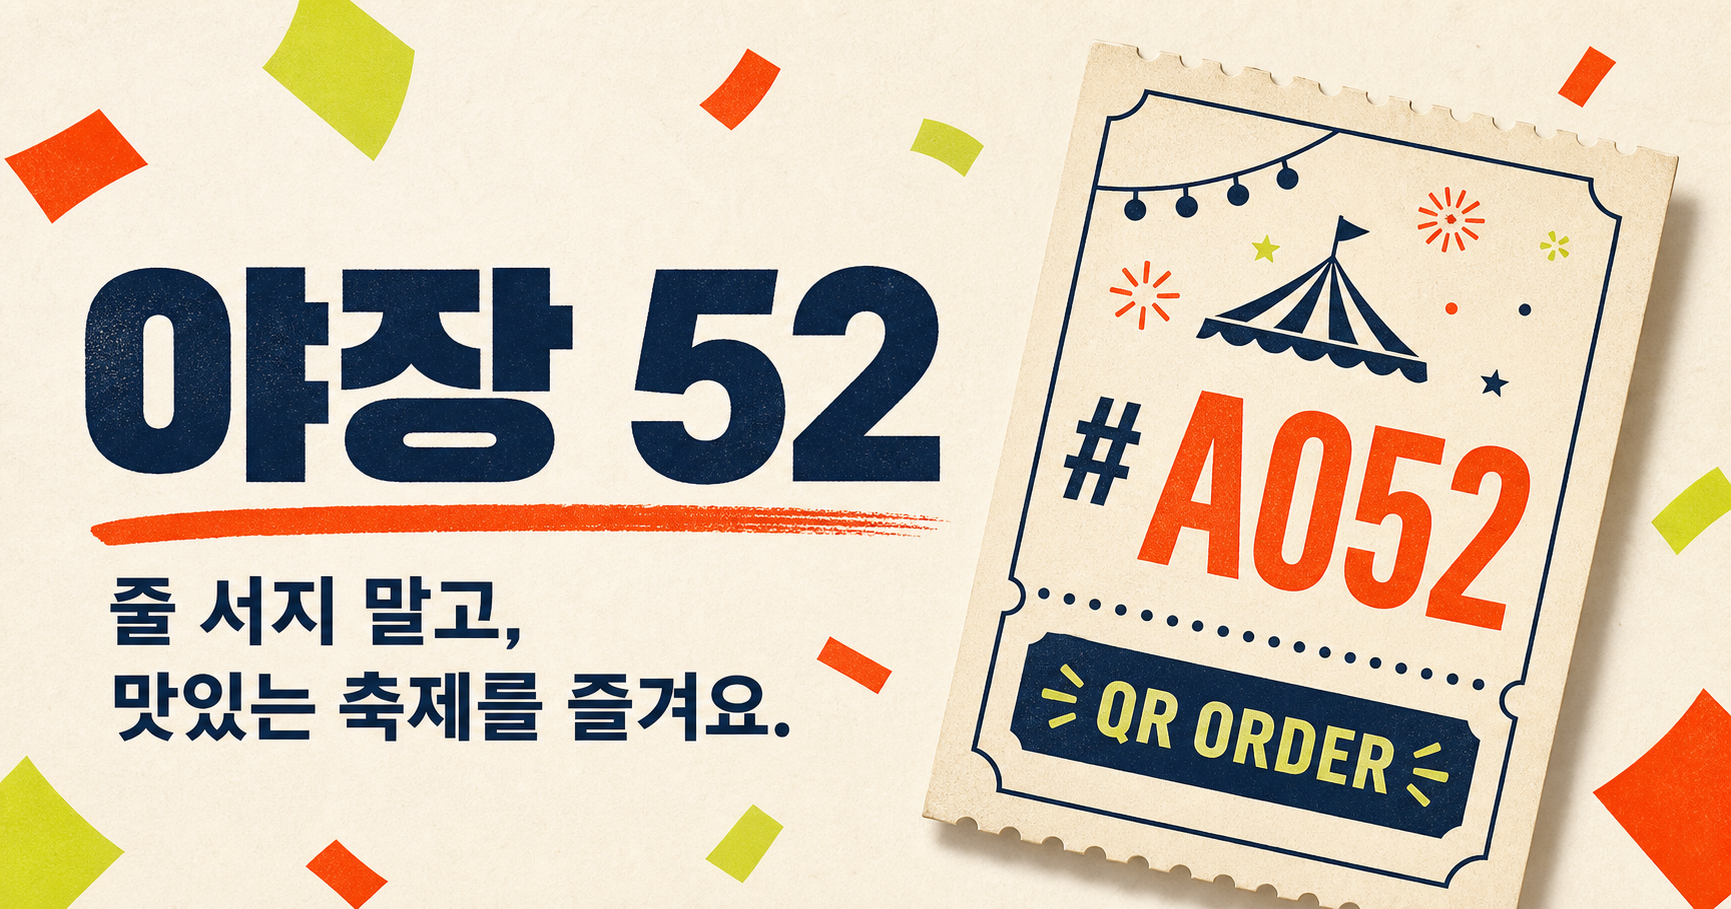
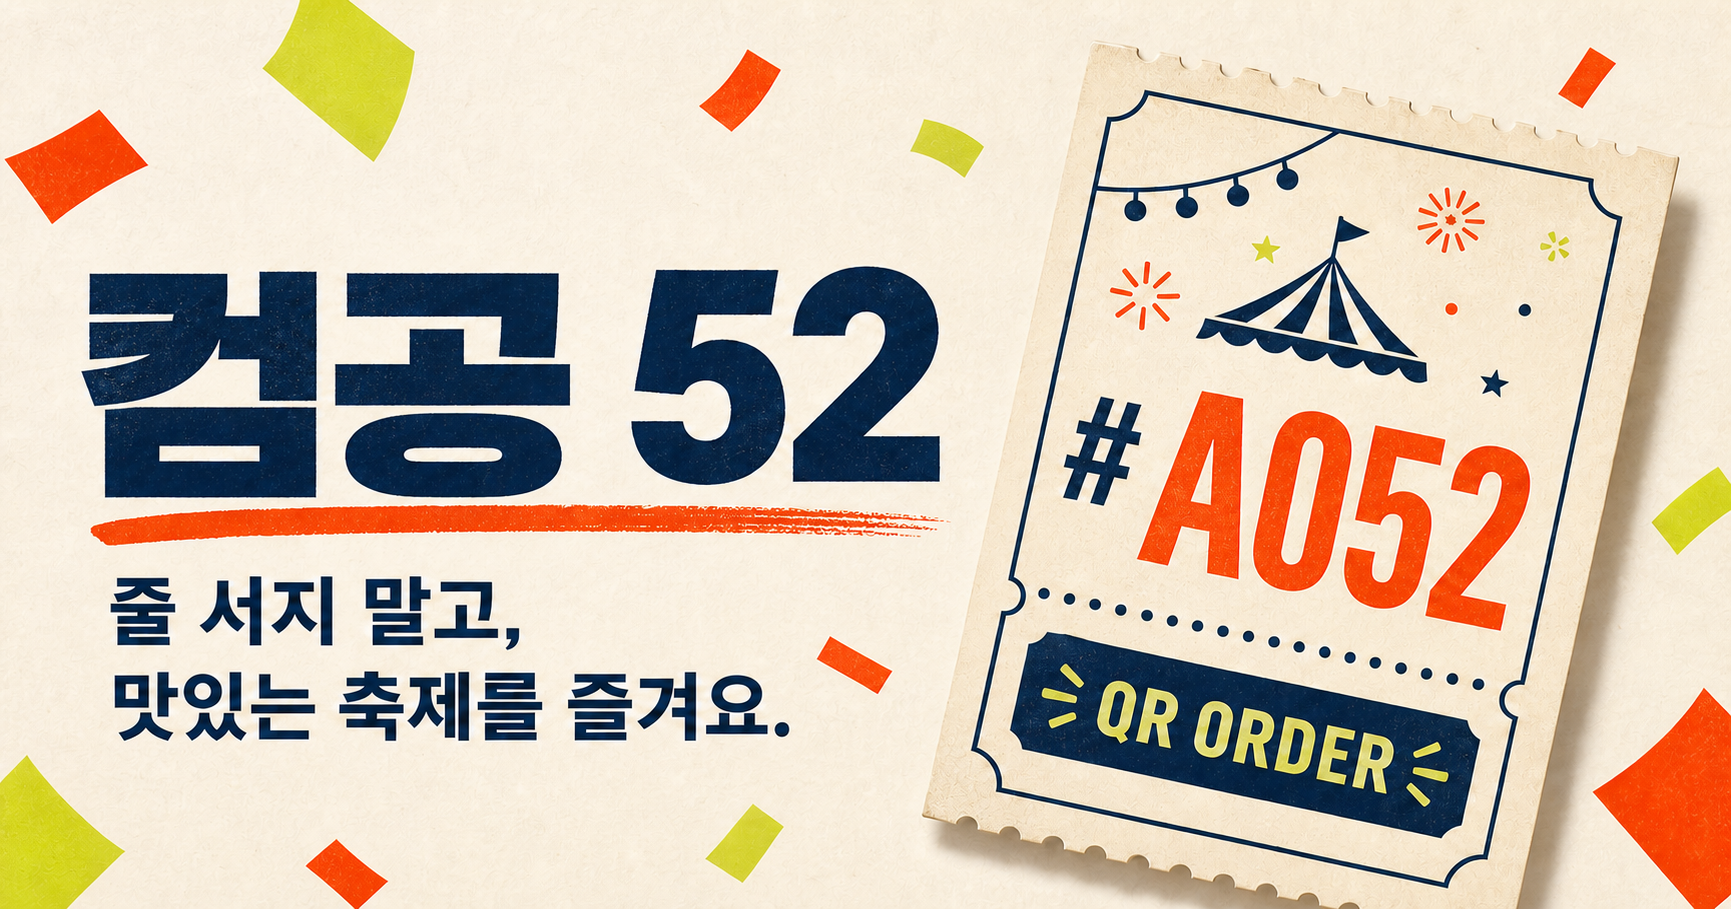
Rename festival brand to 컴공 52

diff --git a/app/layout.tsx b/app/layout.tsx
@@ -15,11 +15,11 @@ export async function generateMetadata(): Promise<Metadata> {
   const origin = `${protocol}://${host}`;
   return {
     metadataBase: new URL(origin),
-    title: { default: "야장 52 | 축제 QR 주문", template: "%s | 야장 52" },
+    title: { default: "컴공 52 | 축제 QR 주문", template: "%s | 컴공 52" },
     description: "테이블과 포장 주문을 빠르고 정확하게 처리하는 축제 QR 주문 시스템",
     icons: { icon: "/og.png", shortcut: "/og.png" },
-    openGraph: { title: "야장 52 · 축제 QR 주문", description: "QR을 찍고, 메뉴를 고르고, 주문 상태까지 한눈에.", type: "website", locale: "ko_KR", images: [{ url: `${origin}/og.png`, width: 1732, height: 909, alt: "야장 52 축제 QR 주문" }] },
-    twitter: { card: "summary_large_image", title: "야장 52 · 축제 QR 주문", description: "줄 서지 말고, 맛있는 축제를 즐겨요.", images: [`${origin}/og.png`] },
+    openGraph: { title: "컴공 52 · 축제 QR 주문", description: "QR을 찍고, 메뉴를 고르고, 주문 상태까지 한눈에.", type: "website", locale: "ko_KR", images: [{ url: `${origin}/og.png`, width: 1732, height: 909, alt: "컴공 52 축제 QR 주문" }] },
+    twitter: { card: "summary_large_image", title: "컴공 52 · 축제 QR 주문", description: "줄 서지 말고, 맛있는 축제를 즐겨요.", images: [`${origin}/og.png`] },
   };
 }
 

diff --git a/src/components/AdminDashboard.tsx b/src/components/AdminDashboard.tsx
@@ -85,7 +85,7 @@ export function AdminDashboard({ initialOrders = DEMO_ORDERS, initialMenu = DEMO
   return (
     <main className="admin-shell">
       <aside className="admin-sidebar">
-        <Link className="brand admin-brand" href="/"><span className="brand-mark">52</span><span><strong>야장</strong><small>ADMIN CONSOLE</small></span></Link>
+        <Link className="brand admin-brand" href="/"><span className="brand-mark">52</span><span><strong>컴공</strong><small>ADMIN CONSOLE</small></span></Link>
         <nav aria-label="운영 메뉴">
           <button type="button" className={view === "orders" ? "active" : ""} onClick={() => setView("orders")}><ClipboardList size={20} /> 주문 관리 <b>{orders.filter((item) => item.orderStatus !== "SERVED" && item.orderStatus !== "CANCELLED").length}</b></button>
           <button type="button" className={view === "inventory" ? "active" : ""} onClick={() => setView("inventory")}><Package size={20} /> 메뉴·재고 <b className="warn-count">{menu.filter((item) => item.stockQuantity <= 5).length}</b></button>

diff --git a/app/page.tsx b/app/page.tsx
@@ -9,7 +9,7 @@ export default function Home() {
       <nav className="landing-nav" aria-label="주요 메뉴">
         <Link className="brand" href="/">
           <span className="brand-mark">52</span>
-          <span><strong>야장</strong><small>FESTIVAL KITCHEN</small></span>
+          <span><strong>컴공</strong><small>COMPUTER ENGINEERING</small></span>
         </Link>
         <Link className="nav-admin" href="/admin">운영자 화면 <ArrowRight size={16} /></Link>
       </nav>
@@ -34,7 +34,7 @@ export default function Home() {
         </div>
 
         <div className="hero-ticket" aria-label="주문 과정 안내">
-          <div className="ticket-top"><span>YAJANG 52</span><span>ORDER GUIDE</span></div>
+          <div className="ticket-top"><span>COMGONG 52</span><span>ORDER GUIDE</span></div>
           <div className="ticket-number"># A052</div>
           <div className="ticket-route">
             <div><span>01</span><strong>메뉴 선택</strong><small>먹고 싶은 메뉴 담기</small></div><i />

diff --git a/src/components/CustomerOrder.tsx b/src/components/CustomerOrder.tsx
@@ -118,7 +118,7 @@ export function CustomerOrder({ initialFulfillment, tableNumber, qrToken, menuIt
     <main className="customer-shell">
       <header className="customer-header">
         <div className="customer-head-row">
-          <Link className="brand compact" href="/"><span className="brand-mark">52</span><span><strong>야장</strong><small>FESTIVAL KITCHEN</small></span></Link>
+          <Link className="brand compact" href="/"><span className="brand-mark">52</span><span><strong>컴공</strong><small>COMPUTER ENGINEERING</small></span></Link>
           <span className="open-chip"><i /> 주문 가능</span>
         </div>
         <div className="fulfillment-switch" role="group" aria-label="수령 방법">

diff --git a/README.md b/README.md
@@ -1,4 +1,4 @@
-# 야장 52 — 축제 QR 주문 시스템
+# 컴공 52 — 축제 QR 주문 시스템
 
 테이블 QR 주문과 포장 주문을 하나의 주문 모델로 처리하는 축제 운영 웹앱입니다. 고객은 메뉴 선택, 계좌이체 확인 요청, 주문 상태 확인을 할 수 있고 운영자는 입금·조리·전달 상태와 재고를 관리합니다.
 
